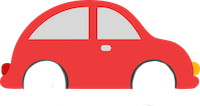
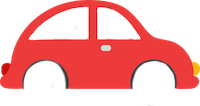
Voiture

Changed region(s): [[0.12, 0.0566, 0.45, 0.3962], [0.48, 0.0566, 0.72, 0.3962]]

diff --git a/voiture/index.html b/voiture/index.html
@@ -9,7 +9,7 @@
   width: 100%;
   height: 150px;
   margin-top:100px;
-  animation: fond 5s 0 infinite;
+  animation: fond 6s 0 infinite;
 }
 #voiture{
   width: 100%;
@@ -17,7 +17,7 @@
 margin: auto;
 top: -120px;
   position: relative;
-    animation: car 5s 0 infinite;
+    animation: car 6s 0 infinite;
 }
 #roue{
   margin-left: 10px;
